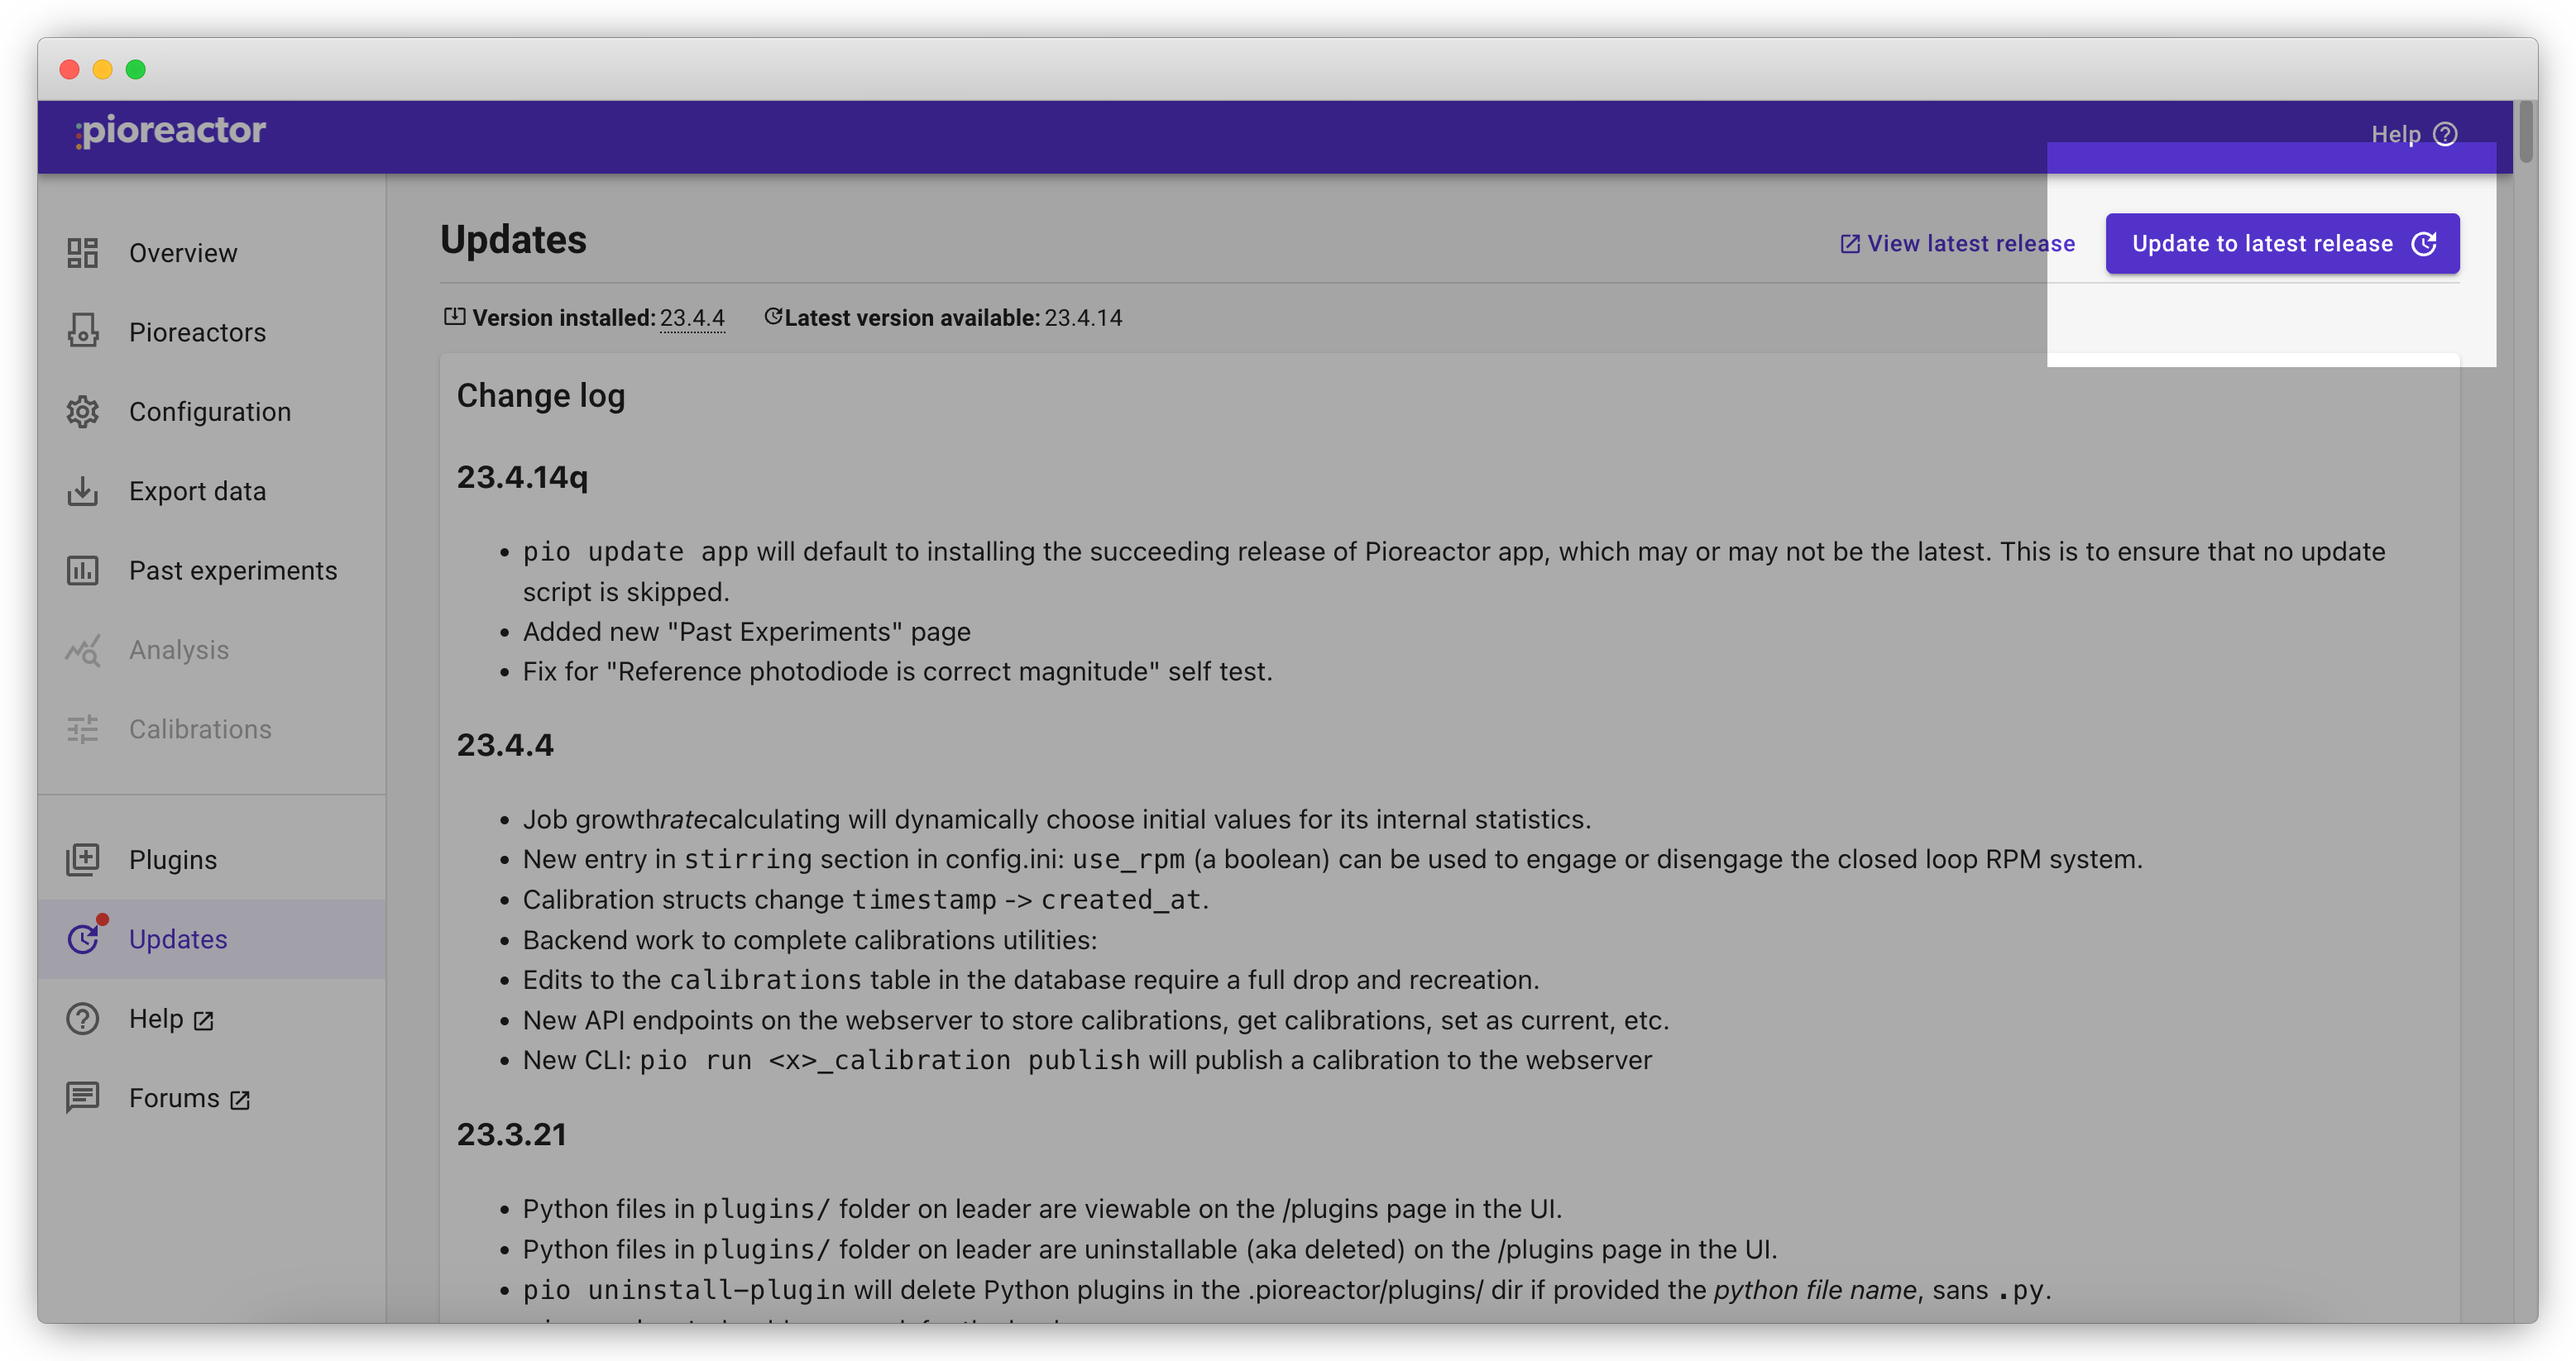
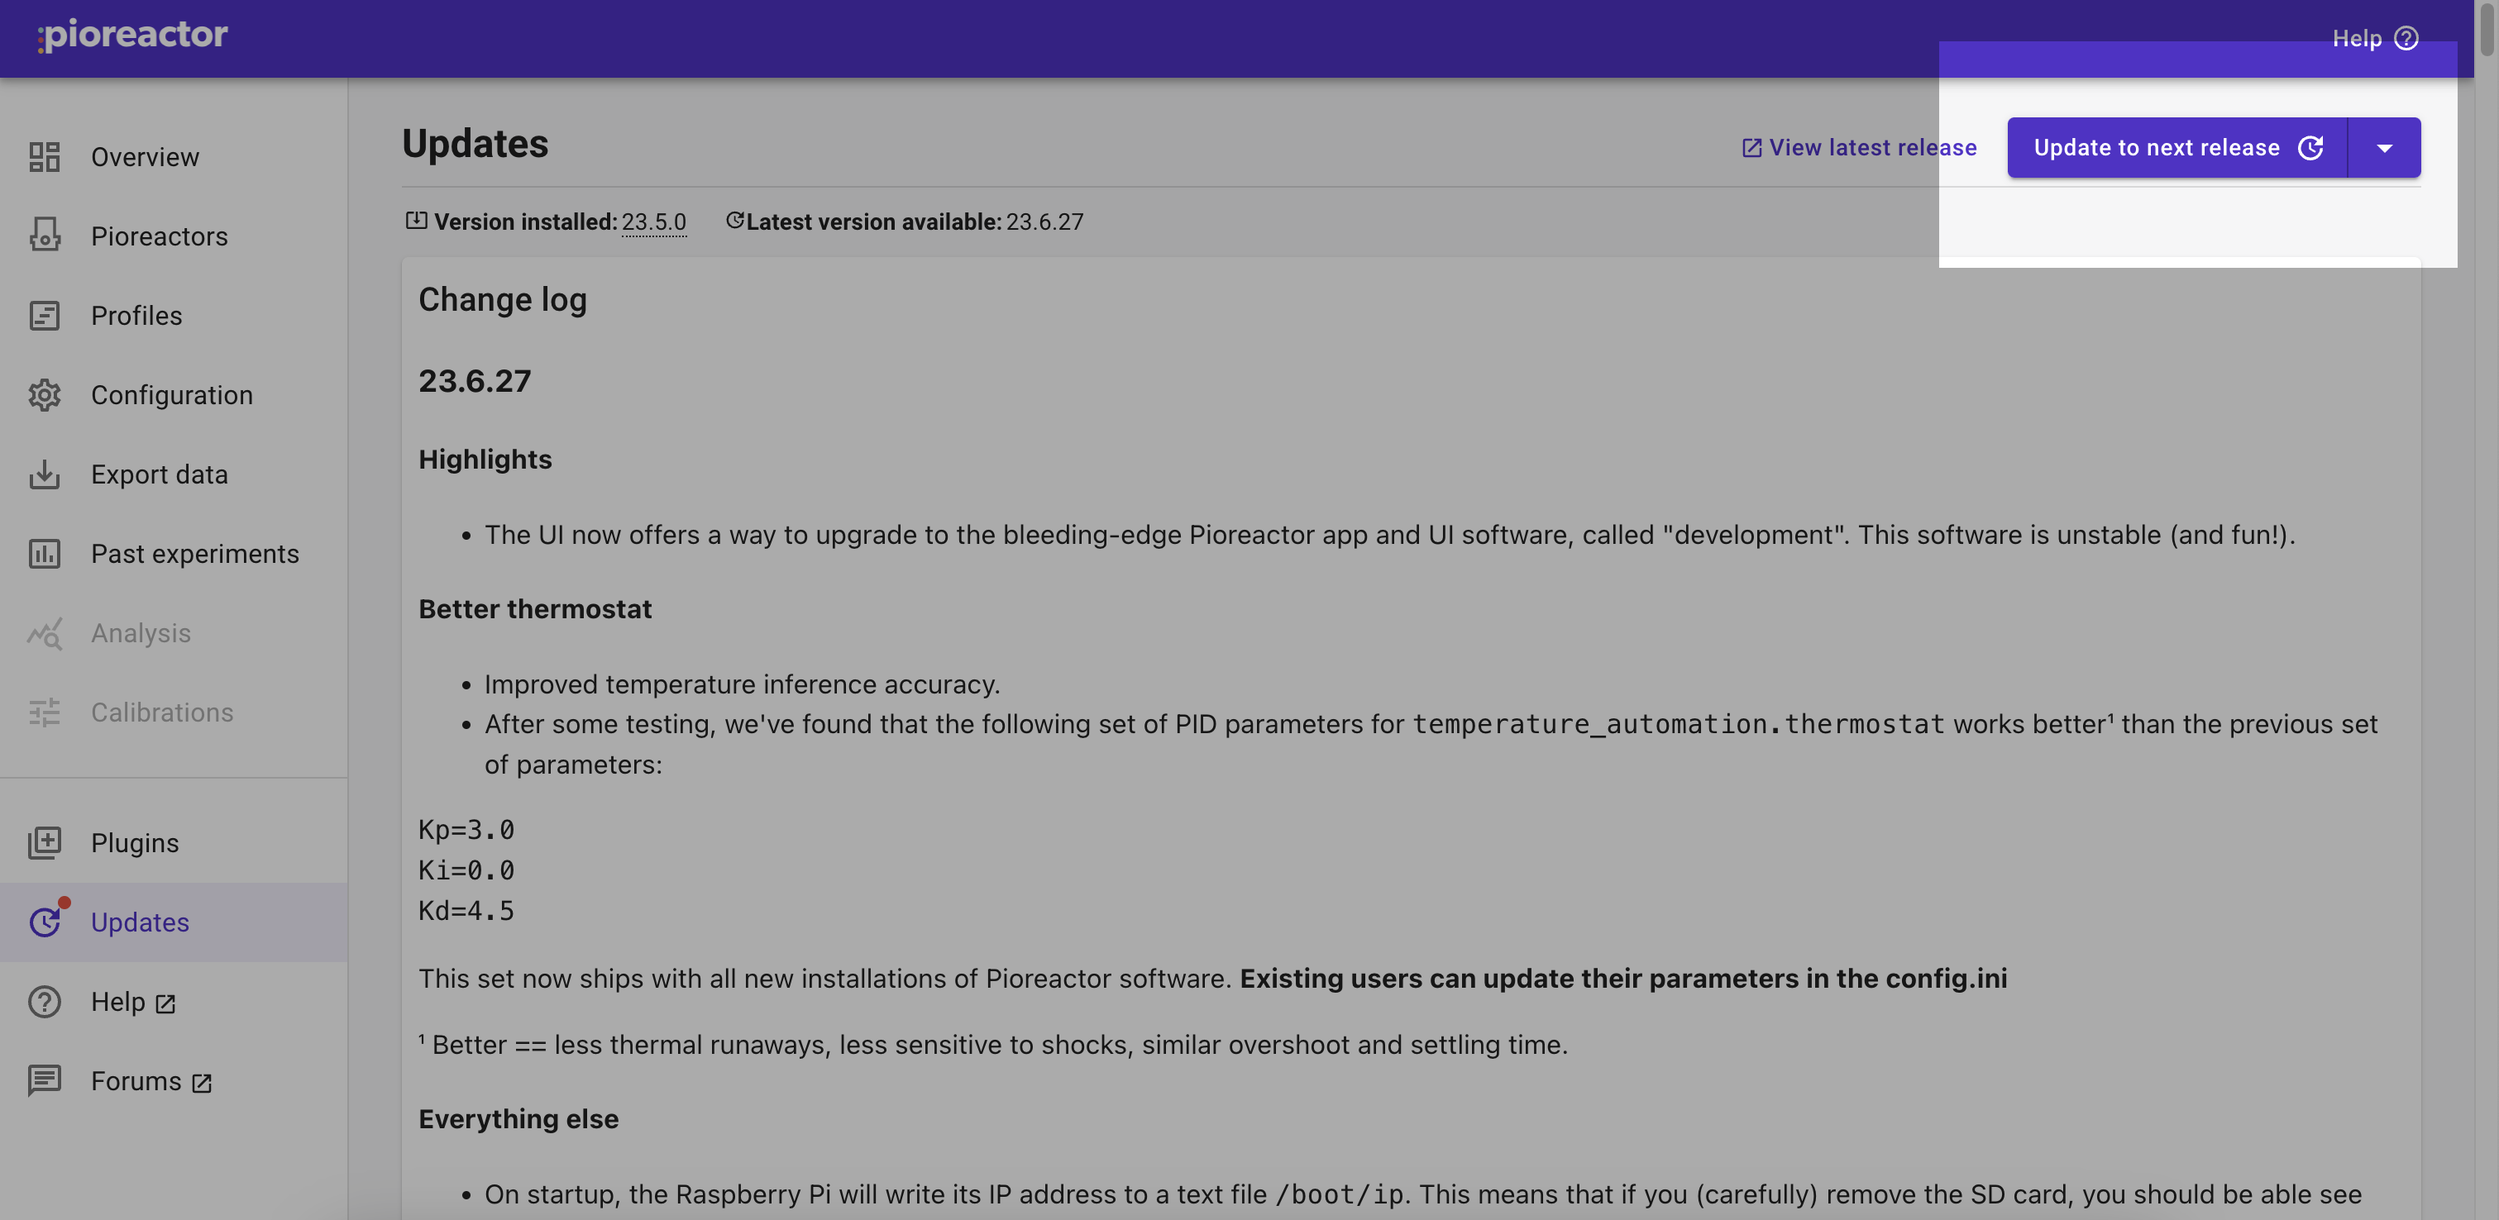
updates

Changed region(s): [[0.0, 0.0, 1.0, 1.0], [0.8709, 0.5921, 0.9332, 0.6233]]

diff --git a/user-guide/03-Extending your Pioreactor/20-updating-software.md b/user-guide/03-Extending your Pioreactor/20-updating-software.md
@@ -18,7 +18,7 @@ Upon visiting the _Updates_ page, you can see what version you have installed, a
 
 If you'd like to update, click on the "Update to next release" button. Updating software doesn't interrupt experiments or activities, but we suggest waiting until between experiments to update.
 
-![](/img/user-guide/click_update.png)
+![highlight of the webpage showing what to select to update](/img/user-guide/click_update.png)
 
 Updating from the UI will update all the Pioreactors in your cluster.
 
@@ -30,4 +30,12 @@ The updating process will update to the _next_ release, after your current versi
 
 ### Installing previous versions or development versions
 
-From the [command line](https://docs.pioreactor.com/user-guide/accessing-raspberry-pi), you can install specific versions. See `pio update app --help` for more.
+You can install the bleeding-edge software from this page as well. Just select the development build in the drop down. Warning: this version may be unstable (and fun!)
+
+
+![highlight of the webpage showing what to select to update to the development branch](/img/user-guide/click_update_develop.png)
+
+
+
+
+Simiarly, from the [command line](https://docs.pioreactor.com/user-guide/accessing-raspberry-pi), you can install specific versions. See `pio update app --help` for more.
